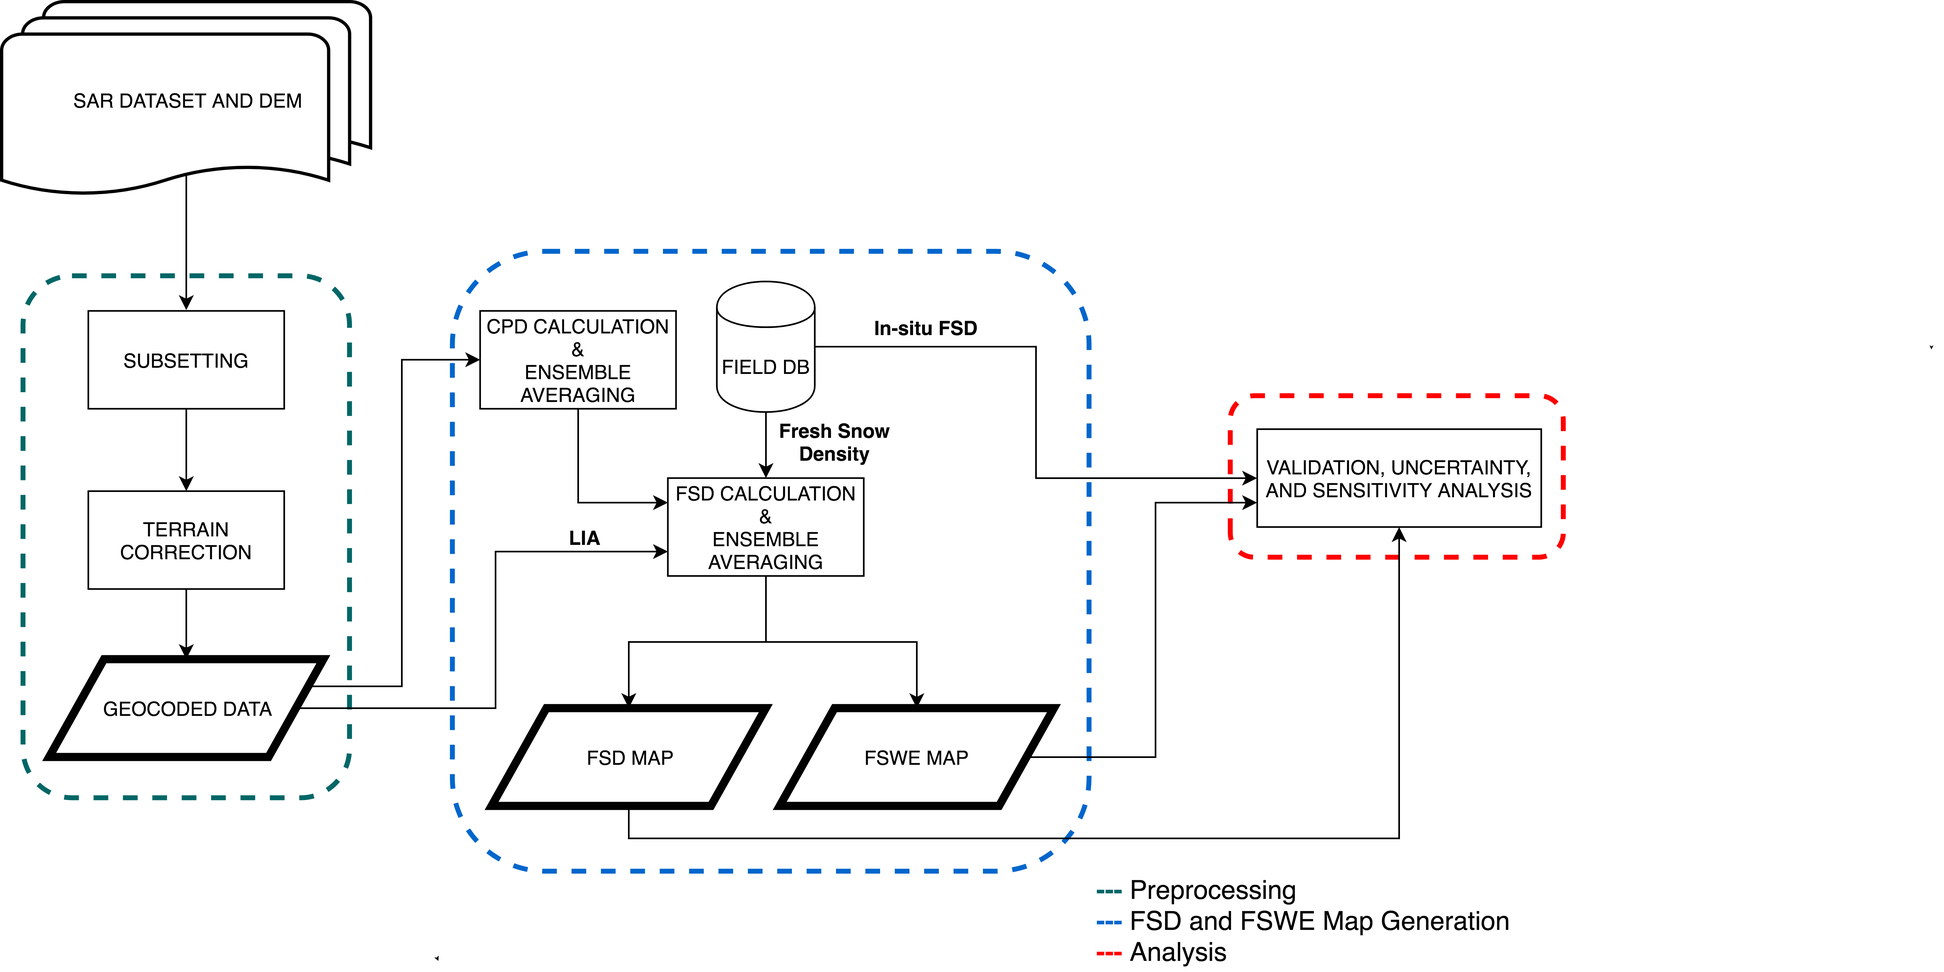
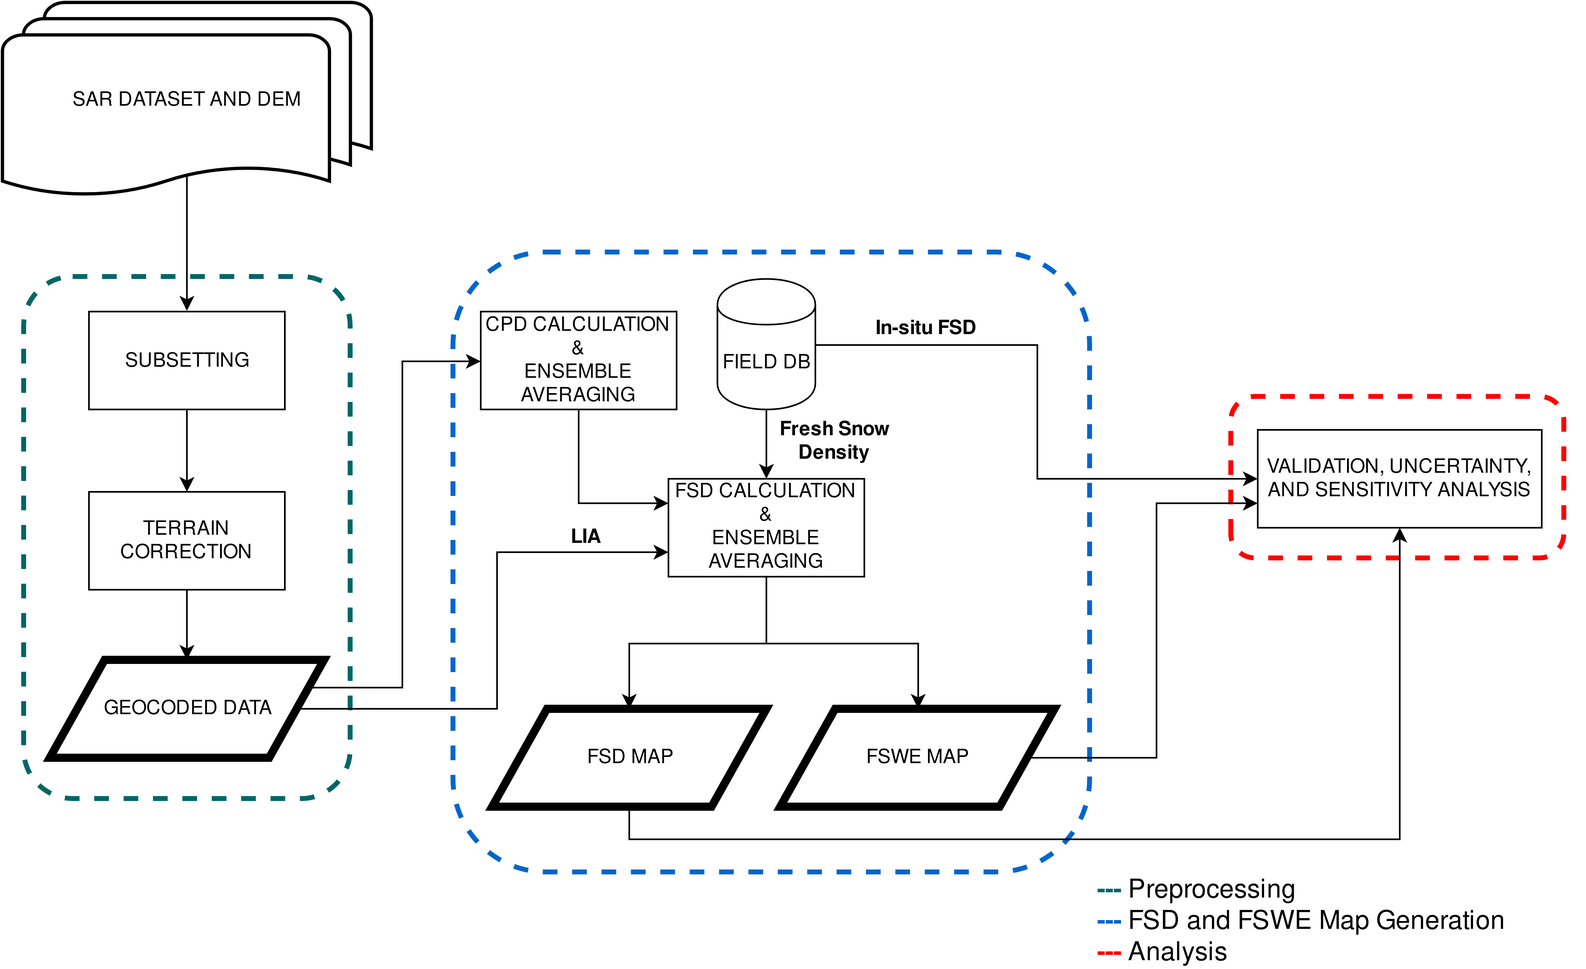
Added Methodology

diff --git a/itc_journal.tex b/itc_journal.tex
@@ -1,6 +1,6 @@
 \documentclass[review]{elsarticle}
 
-\usepackage{lineno,hyperref, graphicx}
+\usepackage{lineno,hyperref, graphicx, amsmath}
 \usepackage[labelformat=simple]{subcaption}
 \renewcommand\thesubfigure{(\alph{subfigure})}
 \modulolinenumbers[5]
@@ -89,7 +89,9 @@ Synthetic Aperture Radar, Copolar Phase Difference, Pol-InSAR, Snow Physical Pro
 The cryosphere collectively represents the regions of the Earth where water is prevalent in its solid form, either permanently (annually) or temporarily (seasonally). These include the polar ice caps, and the snow covered mountainous areas, all of which significantly contribute to the global climate system change. Evidently, snow is the second most extensive component of the cryosphere after frozen ground having maximum and mean cover extents of approximately 47 million sq. km (in January) and 26 million sq. km respectively \citep{Barry2011}. As a result, the frequent large-scale monitoring of snow is central to implementing environmental policies, for which remote sensing is the only way forward \citep{Tedesco2015}.
 
 Snow depth and snow water equivalent constitute two of the most important physical properties of snow and are extensively used in hydrological models that relate to snowmelt runoff and snow avalanche predictions \citep{Thakur2017}. While snow depth or snow height refers to the distance of the ground to the snow surface, SWE quantifies the amount of water present in a snowpack (layered snow formed by accumulation over time). Theoretically, SWE is defined as the product of snow depth and snow density and can be conceptualised as the amount of liquid water obtained owing to the instantaneous melting of
-an entire snowpack \citep{Tedesco2015}. The accurate estimation of these two parameters is quite challenging depending upon the data availability and variety, mathematical model selection, and the hydrometeorological conditions of the area of interest. Hence, it is considered to be an important research element in the cryosphere paradigm \citep{Leinss2014, Leinss2015}.
+an entire snowpack \citep{Tedesco2015}. The accurate estimation of these two parameters is quite challenging depending upon the data availability and variety, mathematical model selection, and the hydrometeorological conditions of the area of interest. Hence, it is considered to be an important research element in the cryosphere paradigm \citep{Leinss2014, Leinss2015, Leinss2016}.
+
+Additionally, the snow accumulation process is heavily dependent on the terrain characteristics which include the elevation, slope, and the slope direction or aspect \citep{Grunewald2014, Jain2009, Negi2009, Srinivasulu2004, Zheng2016}. In this context, previous studies focusing on mountainous regions \citep{Grunewald2014, Jain2009} have found that the elevation and snow depth are positively correlated till a certain elevation threshold. After this, there is a significant decrease in the SD with increasing elevation values. Moreover, snow accumulation is not prominent in steep slopes due to the snow redistribution caused by avalanches and wind drift \citep{Grunewald2014}. Freshly fallen snow on top of standing or old snow in the windward slope (mountain side which receives heavy precipitation) are eroded and at the same time deposited to some other slopes which alters the snow cover area \citep{Lehning2008}. Furthermore, the process of preferential deposition occurring in steep terrains leads to the snow deposition in the leeward side (mountain side which generally receives low precipitation) of a mountain where low snow accumulation is expected \citep{Lehning2008}. Apart from this, the research conducted by \cite{Jain2009} shows that the terrain aspect significantly controls the snow accumulation in lower altitudes as compared to higher elevation regions. Specifically, in the northwestern Himalayan belt, the maximum snow depth occurs in the northwest (NW) and northeast (NE) slopes due to the low amount of received sunlight particularly during the winters \citep{Jain2009}.
 
 Due to the difficulties posed by in-situ or ground based measurements of snow depth and SWE in rugged terrains, remote sensing techniques coupled with adequately sampled (both in space and time domains) ground measurements are widely used to improve the quality of these estimated parameters over considerably large areas \citep{Takala2011}. Currently, LiDAR (Light Detection and Ranging) and spaceborne SAR are the most popular techniques used in the studies related to snow, ice and the cryosphere in general \citep{Deems2013, Leinss2014, Tedesco2015}. However, LiDAR can only be used to determine the height of the snow and cannot be used for measuring other physical properties such as snow density and snow wetness. In addition, the operating cost of LiDAR is sufficiently high and is also weather dependent \citep{Deems2013}. As a result, spaceborne SAR systems benefit from substantial coverage (globally available), cloud insensitivity, night-time operability and are extensively used to measure the snow physical properties sufficiently at high spatial resolutions \citep{Moreira2013, Thakur2012}.
 
@@ -111,14 +113,15 @@ The Pol-InSAR technique works on the coherent combination of both PolSAR and InS
 
 The prime focus of this research is to estimate the FSD and SSD using PolSAR and Pol-InSAR respectively. In addition, the corresponding fresh SWE (FSWE) and standing SWE (SSWE) are to be determined, for which the respective snow densities need to be known. Essentially, the study involves sensitivity analysis of the various model parameters along with the identification of the different uncertainty sources present in the chosen geographical area. 
 
-This manuscript is compartmentalised into seven sections each consisting of several subsections. It starts with an introductory discussion in section \ref{sec:Intro}. Thereafter, the study area and the datasets including the required  software are specified in section \ref{sec:study}. From section \ref{sec:method} onwards the methodology and results are discussed. Finally, the relevant conclusions and recommendations are put forward in section \ref{sec:conc}.
+This manuscript is compartmentalised into five sections each consisting of several subsections. It starts with an introductory discussion in section \ref{sec:Intro}. Thereafter, the study area and the datasets including the required  software are specified in section \ref{sec:study}. From section \ref{sec:method} onwards the methodology and results are discussed. Finally, the relevant conclusions and recommendations are put forward in section \ref{sec:conc}.
 
 \section{Study Area, Datasets, and Software}
 \label{sec:study}
 
 \subsection{Chosen Study Area}
 \subsubsection{Geographical Situation}
-The Beas river watershed near Manali, India is part of the north-western Himalayas. Naturally, steep slopes and dense forests are prominent in this region. The elevation typically varies from nearly 2500 m to more than 5000 m in some places as observed in the reference ALOS PALSAR DEM (Figure \ref{fig:overview}). In this work, a small region ($\sim$ 96 km\textsuperscript{2}) of the Beas basin is chosen which starts a few kilometres uphill from Dhundi up to Kothi (shown in Figure \ref{fig:overview}). These areas receive substantial seasonal snowfall which begins in December and lasts till late March. However, the cold, dry season usually commences from late September or early October. The coldest period is in January during which the temperatures reach a daily minimum of -15$^\circ$C on an average. The summers are mild to occasionally warm with June being the hottest month (mean and maximum temperatures of 20$^\circ$C and 30$^\circ$C respectively are common). Apart from this, significant rainfall occurs between late June and September (monsoon season) with August receiving the maximum precipitation \citep{Majumdar2019, Thakur2012}.
+
+The Beas river watershed near Manali, India is part of the north-western Himalayas. Naturally, steep slopes and dense forests are prominent in this region. The elevation typically varies from nearly 2500 m to more than 5000 m in some places as observed in the reference ALOS PALSAR DEM (Figure \ref{fig:overview}). 
 
 \begin{figure}[htb]
     \centering
@@ -127,10 +130,13 @@ The Beas river watershed near Manali, India is part of the north-western Himalay
     \label{fig:overview}
 \end{figure}
 
+In this work, a small region ($\sim$ 96 km\textsuperscript{2}) of the Beas basin is chosen which starts a few kilometres uphill from Dhundi up to Kothi (shown in Figure \ref{fig:overview}). These areas receive substantial seasonal snowfall which begins in December and lasts till late March. However, the cold, dry season usually commences from late September or early October. The coldest period is in January during which the temperatures reach a daily minimum of -15$^\circ$C on an average. The summers are mild to occasionally warm with June being the hottest month (mean and maximum temperatures of 20$^\circ$C and 30$^\circ$C respectively are common). Apart from this, significant rainfall occurs between late June and September (monsoon season) with August receiving the maximum precipitation \citep{Majumdar2019, Thakur2012}.
+
 \subsubsection{Field Visit}
+
 Intensive fieldwork had been conducted from October 14-21, 2018 in the Dhundi and Kothi areas where several Differential Global Positioning System (DGPS) measurements were acquired using the Leica Viva GS 10 \citep{LeicaGeosystemsAG2012} with adequate horizontal positional accuracies ($\sim$7 cm) \citep{Majumdar2019}. Due to the complex terrains, most of the DGPS readings had been obtained through the kinematic mode \citep{Luo2014}. However, in some of the convenient places such as the Dhundi base station and near the Kothi Automatic Weather Station (AWS), the static mode was used \citep{LeicaGeosystemsAG2012}. Eventually, elevation information from these DGPS points have been compared with the ALOS PALSAR DEM, the details of which are provided in section \ref{sec:res}. Furthermore, the manual snow readings from 2014-2018 (snow depth, density, weather profile and other relevant data) which are maintained by the security personnel daily at Dhundi had been pagewise photographed using a smartphone camera. In order to properly understand and visualise the characteristics of the study area, selected field photographs and their brief description are shown from figures \ref{subfig:gps}-\ref{subfig:stations}.
 
-\begin{figure}[htb]
+\begin{figure}[!t]
     \centering
     \begin{subfigure}[t]{0.49\textwidth}
         \raisebox{-\height}{\includegraphics[width=\textwidth]{Figures/Field/me_gps.jpg}}
@@ -179,13 +185,144 @@ Additionally, the in-situ snow physical parameters’ data (standing and fresh s
 Resources Department (WRD), Indian Institute of Remote Sensing (IIRS).
 
 \subsection{Software}
+
 The Sentinel Application Platform (SNAP) 6.0.5 \citep{ESA2018} has been used for basic SAR processing. In addition, the FSD and SSD inversion models have been implemented using Python 3 wherein PyCharm Community Edition 2018.1 \citep{JetBrains2018} was used as the Integrated Development Environment (IDE). Moreover, the final SD and SWE maps have been prepared using QGIS 2.18 \citep{QGIS2016}. Furthermore, some of the computationally intensive tasks have been carried out using the High-Performance Computing (HPC) infrastructure installed at IIRS.
 
 \section{Methodology}
 \label{sec:method}
-There are various bibliography styles available. You can select the style of your choice in the preamble of this document. These styles are Elsevier styles based on standard styles like Harvard and Vancouver. Please use Bib\TeX\ to generate your bibliography and include DOIs whenever available.
 
-Here are two sample references: \cite{Thakur2012, Leinss2014, Cloude1998, Cloude2010}.
+This section deals with the methodological framework which has been followed to generate the SD and SWE results. In order to briefly put the overall workflow, a flowchart is shown in Figure \ref{fig:method_overview} which highlights the main process blocks. Here, the preprocessing steps are discussed in section \ref{ssec:pre}. Moreover, the PolSAR CPD and Pol-InSAR based approaches used for the FSD and SSD estimation respectively are individually addressed in sections \ref{ssec:fsd} and \ref{ssec:ssd}. Finally, the uncertainty assessment, validation and sensitivity tasks are described in section \ref{ssec:vus}.
+
+\begin{figure}[htb]
+    \centering
+    \includegraphics[width=\textwidth]{Figures/Methods/Overview_Method.png}
+    \caption{Overview of the main processing blocks.}
+    \label{fig:method_overview}
+\end{figure}
+
+\subsection{Data Preprocessing}
+\label{ssec:pre}
+
+Since the SAR dataset is already coregistered, separate coregistration step has not been performed. In case of the FSD estimation model, the geocoded or terrain-corrected data (3 m spatial resolution) consists of the HH and VV scenes along with the local incidence angle (LIA) computed from the ALOS PALSAR DEM. As for the Pol-InSAR scenario, all the SAR channels, i.e., HH, HV, VH and VV along with the LIA are present in the geocoded data. It should be noted that, for the Pol-InSAR, processing both the master, TDX (master) and TSX (slave) images are required to generate the interferogram. However, the FSD estimation model can be used using any one of these images, though the average of the TDX and TSX CPDs can potentially improve the signal-to-noise ratio (SNR) \citep{Leinss2014}.
+
+\subsection{CPD based Fresh Snow Depth Estimation}
+\label{ssec:fsd}
+\subsubsection{CPD Computation}
+
+The FSD is estimated using the CPD method developed by \cite{Leinss2014}. At first, $\phi_{CPD}$ for the TDX data ($\phi_{CPD,TDX}$) acquired on January 8, 2016, is computed using Eq. \eqref{seq:a} and then an ensemble averaging operation is applied over a 21$\times$21 window \citep{Majumdar2019}. Similarly, $\phi_{CPD}$ for the TSX data ($\phi_{CPD,TSX}$) is calculated following which the average CPD, $\overline{\phi_{CPD}}$ is obtained using Eq. \eqref{seq:b}. Here, $\Im$ and $\Re$ denote the imaginary and real parts of the complex scattering matrices $S_{VV}$ and $S_{HH}$ respectively.
+
+\begin{subequations}
+    \centering
+    \label{eq:1}
+    \begin{equation}
+        \phi_{CPD} = \phi_{VV} - \phi_{HH} = \left\langle\underbrace{\tan^{-1}\left(\frac{\Im\left(S_{VV}\right)}{\Re\left(S_{VV}\right)}\right)}_{\phi_{VV}} - \underbrace{\tan^{-1}\left(\frac{\Im\left(S_{HH}\right)}{\Re\left(S_{HH}\right)}\right)}_{\phi_{HH}}\right\rangle
+        \label{seq:a}
+    \end{equation}
+    
+    \begin{equation}
+        \overline{\phi_{CPD}} = \frac{\phi_{CPD,TDX} + \phi_{CPD,TSX}}{2}
+        \label{seq:b}
+    \end{equation}
+\end{subequations}
+
+ $\phi_{CPD}$ can be alternatively defined as the phase angle of the complex copolar coherence, $\widetilde{\gamma_c}$ (since $\gamma$ is the standard notation for coherence amplitude, $\widetilde{\gamma}$ is used for the complex coherence), defined in Eq. \eqref{eq:2}. In this case, the copolar coherence amplitude ($\gamma_c = \lvert\widetilde{\gamma_c}\rvert$) is a measure of the radar backscattering mechanism where low values close to zero (ideally $\gamma_c =$ 0) indicate the presence of volume scattering and high values (ideally $\gamma_c =$ 1) represent surface scattering \citep{Lee2009, Leinss2014, Singh2014}. It should be noted that only the CPD computed from side-looking radar systems is able to describe a target having dielelectrically anisotropic microstructure as in the case of snow \citep{Leinss2014}. 
+
+\begin{equation}
+        \widetilde{\gamma_c} = \frac{\left\langle S_{VV}S_{HH}^*\right\rangle}{\sqrt{\left\langle S_{VV}S_{VV}^*\right\rangle\left\langle S_{HH}S_{HH}^*\right\rangle}} = \gamma_ce^{j\phi_{CPD}}, \gamma_c \in [0, 1]
+        \label{eq:2}
+\end{equation}
+
+\subsubsection{Calculating the Depolarisation Factors}
+
+In order to model this snow anisotropy, an ice particle needs to be associated with a specific shape. It has been observed that fresh snow and old snow exhibit horizontally aligned (oblate) and vertically aligned (prolate) spheroidal structures respectively \citep{Leinss2014}. Moreover, a shape parameter, known as the depolarisation factor, also has to be considered in this context \citep{Leinss2014, Sihvola1999}. In principle, a single spheroidal particle is characterised by three dipoles corresponding to the three orthogonal axes ($a_x$ , $a_y$ , and $a_z$) represented using a 3D ($x$, $y$, $z$) Cartesian coordinate system. This is depicted in Figure \ref{fig:prolate}, where the prolate shaped ice grain is linked with the radar reference frame ($h$, $k$, $v$) following the radar backscattering alignment (BSA) convention, $k$ being the propagation vector, $h$ and $v$
+are the wave components of the horizontal and vertical polarisations respectively. Also, $\theta$ is the mean incidence angle with respect to the surface normal \citep{Leinss2014, Parrella2013}. 
+
+\begin{figure}[htb]
+    \centering
+    \includegraphics[width=\textwidth]{Figures/Prolate_New.png}
+    \caption{Orientation of a single prolate ice particle linked with the radar reference frame. Adapted from \cite{Leinss2014}.}
+    \label{fig:prolate}
+\end{figure}
+
+So, by fixing a particle shape, the three depolarisation factors, $N_i$ ($\forall i \in {x, y, z}$), can be obtained by
+solving the surface integral ($s$ is the ellipsoidal surface) as shown in Eq. \eqref{eq:3}.
+
+\begin{equation}
+	N_i =\frac{a_xa_ya_z}{2}\int_0^\infty\frac{\mathrm{d}s}{(s+a_i^2)\sqrt{(s+a_x^2)(s+a_y^2)(s+a_z^2)}}
+	\label{eq:3}
+\end{equation}
+\begin{center}\text{where, $N_x + N_y + N_z = 1$}\end{center}
+
+For a perfectly spherical shape, all three depolarisation factors are equal to 1/3. The two other special
+cases include disk (1, 0, 0) and needle (0, 1/2, 1/2). In cases of prolate and oblate spheroids, the closed
+form expressions are already available as shown in Eq. \eqref{eq:4} \citep{Sihvola1999}. Here, the shape is dependent
+on the axial ratio ($a_x/a_z$) which is used for calculating the prolate eccentricity, $e_1 = \sqrt{1 - (a_x/a_z)^2}$ , and
+oblate eccentricity, $e_2 = \sqrt{(a_x/a_z)^2 - 1}$ respectively, i.e., for prolate, $a_x/a_z < 1$, whereas for oblate, it
+is the reverse. However, for general ellipsoids having different axes, the above surface integration needs to
+be explicitly solved.
+
+\begin{equation}
+	N_z = \begin{cases} 
+          \frac{1 - e_1^2}{2e_1^3}\left(\ln{\frac{1 + e_1}{1 - e_1} - 2e_1}\right) &, a_z > a_x = a_y \\
+          \frac{1 + e_2^2}{e_2^3}\left(e_2 - \tan^{-1}e_2\right) &, a_z < a_x = a_y
+       \end{cases}
+	\label{eq:4}
+\end{equation}
+
+\subsubsection{Computing the Snow Refractive Indices}
+
+Evidently, the Maxwell-Garnett theory related to electromagnetic mixing models can be applied to a medium (here snow) consisting of both air and ice which are having relative permittivities, $\epsilon_{air}$ and $\epsilon_{ice}$ respectively. Therefore, the effective permittivity of this mixed medium, $\epsilon_{eff, i}$, is anisotropic and given by Eq. \eqref{eq:5} \citep{Leinss2014, Sihvola1999}. Here, the particle volume fraction ($f_{vol}$) is dependent on the fresh snow density ($\rho_f$)and ice density ($\rho_{ice}$). 
+
+\begin{equation}
+	\epsilon_{eff, i} = \epsilon_{air}\left[1 + f_{vol}\frac{\epsilon_{ice} - \epsilon_{air}}{\epsilon_{air} + \left(1 - f_{vol}\right)N_i\left(\epsilon_{ice} - \epsilon_{air}\right)}\right]
+	\label{eq:5}
+\end{equation}
+\begin{center}where, $f_{vol} = \rho_f / {\rho_{ice}}, \rho_{ice} = 0.917 \text{ g/cm\textsuperscript{3}, and } i \in {x, y, z}$\end{center}
+
+Furthermore, the refractive indices of this birefringent (or birefractive) medium, $n_H$ and $n_V$ corresponding to the HH and VV polarisations respectively, are dependent on this anisotropic effective permittivity \citep{Leinss2014}. In addition, since the snow anisotropy is assumed to be oriented along the Earth’s gravitational field, $n_H$ remains constant whereas $n_V$ is dependent on the incidence angle $\theta$ as given by Eq. \eqref{seq:nh} and Eq. \eqref{seq:nv} respectively \citep{Leinss2016}. Also, the imaginary part of the effective permittivity is negligible in the case of dry snow (fresh snow is also dry), and therefore, it is not used in the model developed by \cite{Leinss2014}.
+
+\begin{subequations}
+    \centering
+    \label{eq:6}
+    \begin{align}
+        n_H^2 &= \epsilon_{eff, x} \label{seq:nh}\\
+        n_V^2 &= \epsilon_{eff, y}\cos^2\theta + \epsilon_{eff, z}\sin^2\theta \label{seq:nv} 
+    \end{align}
+\end{subequations}
+where, $\epsilon_{eff, x}$ , $\epsilon_{eff, y}$ , and $\epsilon_{eff, z}$ represent the effective permittivities of fresh snow in $x$, $y$, and $z$ directions of a 3D Cartesian co-ordinate system \citep{Leinss2014}.
+
+\subsubsection{FSD and FSWE Computation}
+
+Once all these aforementioned parameters are calculated, the CPD based inversion model given by Eq. \eqref{eq:7} is applied to estimate the depth of fresh snow, denoted by $\Delta{Z_f}$ \citep{Majumdar2019, Leinss2014, Leinss2016}. In this equation, -1 is introduced as per the BSA convention which is followed for all radar systems. Here, $\lambda_0$ is the radar wavelength and $\Delta\zeta$ is the relative path length difference which is dependent on $\epsilon_{eff, i}$, $\theta$, and $\rho_f$ \citep{Leinss2016}. Moreover, the horizontally aligned microstructure of fresh snow reduces the propagation speed for the HH channel and hence, in this case, $n_H > n_V$ always holds. However, for recrystallised snow having vertically aligned structures, the reverse condition is true \citep{Leinss2016}. Also, the LIA ($\theta_l$) is used instead of the mean incidence angle ($\theta$) to consider the effect of the terrain slope.
+
+\begin{equation}
+    \centering
+    \Delta{Z_f} = (-1)\frac{\lambda_0\phi_{CPD}}{4\pi\Delta{\zeta}}
+    \label{eq:7}
+\end{equation}
+\begin{center}where, $\Delta{\zeta} = \sqrt{n^2_V - \sin^{2}\theta_l} - \sqrt{n^2_H - \sin^{2}\theta_l}, \phi_{CPD} > 0, \text{ and } n_H > n_V$\end{center}
+
+Here, the depolarisation factors are calculated by setting the axial ratio, $a_x/a_z = 1.6$ in
+Eq. \eqref{eq:4} and choosing the snow particle shape as an oblate \citep{Majumdar2019}. After this, the anisotropic
+effective permittivities are computed using Eq. \eqref{eq:5}. Finally, the FSD is obtained from Eq. \eqref{eq:7} wherein an ensemble averaging filter of size 65$\times$65 is applied. The FSWE is obtained by multiplying the FSD with the fresh snow density (i.e, FSWE $ = \Delta{Z_f}\rho_f$)Also, the fresh snow density ($\rho_f = $0.07 g/cm\textsuperscript{3}) which is manually measured at Dhundi, is kept constant for the entire study area along with the copolar coherence threshold, $\tau_c = $ 0 ($\tau_c \in$ [0, 1]), i.e., no thresholding has been applied, but the provision for it is built-in to the implementation. Moreover, as per the TSX/TDX metadata, the radar wavelength, $\lambda_0 ≈ $ 3.11 cm. In this context, the adopted workflow is depicted in Figure \ref{fig:fsd_method}.
+
+\begin{figure}[htb]
+    \centering
+    \includegraphics[width=\textwidth]{Figures/Methods/FSD_Method.png}
+    \caption{FSD and FSWE estimation workflow using PolSAR CPD.}
+    \label{fig:fsd_method}
+\end{figure}
+
+\subsection{Pol-InSAR based Standing Snow Depth Estimation}
+\label{ssec:ssd}
+\subsection{Validation, Uncertainty Assessment, and Sensitivity Analysis}
+\label{ssec:vus}
+\subsubsection{Validation Process}
+\label{sssec:val}
+\subsubsection{Uncertainty Assessment}
+\label{sssec:ua}
+\subsubsection{Sensitivity Analysis}
+\label{sssec:sa}
 
 \section{Results and Discussion}
 \label{sec:res}
